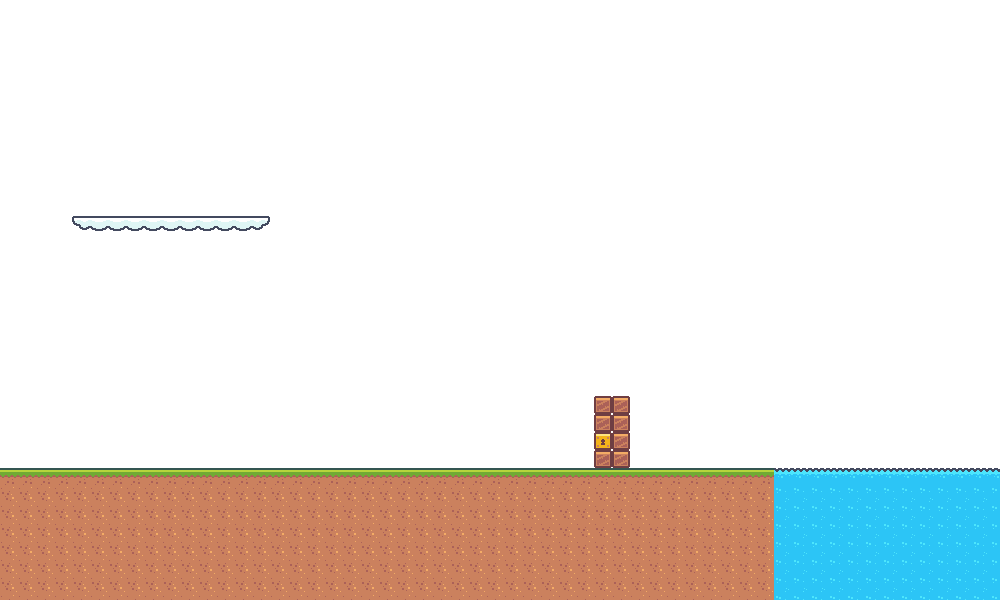
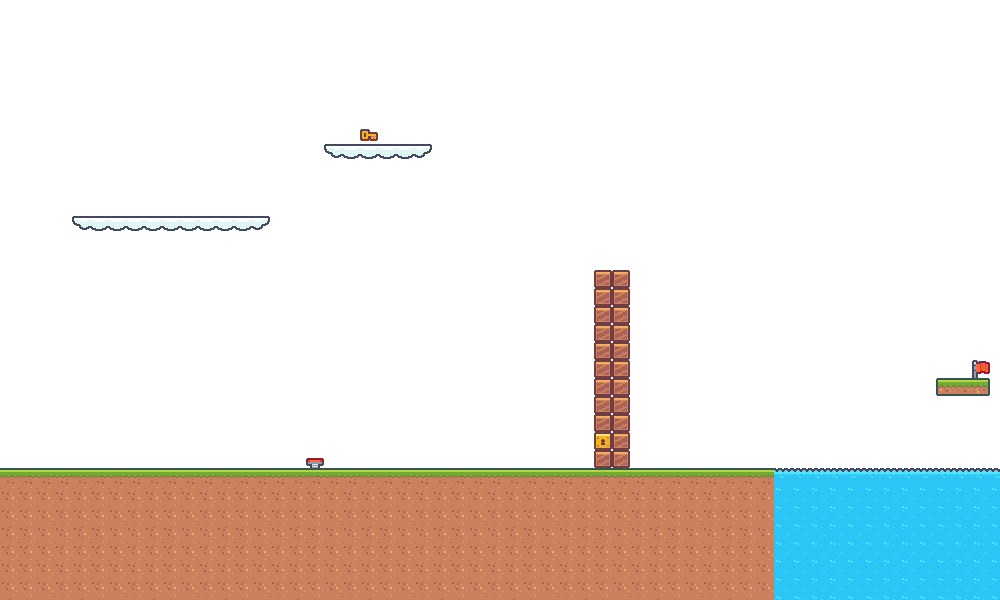
final

diff --git a/Season4/final/final/1.py b/Season4/final/final/1.py
@@ -20,6 +20,9 @@ class Player(Sprite):
     MAX_SPEED = 10
     ACCELERATION = 1
     CLIMB_SPEED = 2
+    SWIM_SPEED = 2
+
+    JUMP_KEY = KeyCode.SPACE
 
     class State(Enum):
         STANDING = auto()
@@ -27,6 +30,7 @@ class Player(Sprite):
         JUMPING = auto()
         FALLING = auto()
         CLIMBING = auto()
+        SWIMMING = auto()
 
     def on_create(self):
         self.image = "character_0001.png"
@@ -40,6 +44,7 @@ class Player(Sprite):
         self.add_tag("player")
         self.layer = 5
         self.state = Player.State.FALLING
+        self.has_key = False
 
     def is_on_a_ladder(self):
         return bool(self.get_touching_sprites_with_tag('l'))
@@ -63,14 +68,13 @@ class Player(Sprite):
         self.y += self.vy
         self.vy -= Player.GRAVITY
 
-
     def on_update(self, dt):
 
         if self.state is Player.State.STANDING:
             self.update_vx()
             if self.vx != 0:
                 self.state = Player.State.WALKING
-            if w.is_key_down(KeyCode.W):
+            if w.is_key_down(Player.JUMP_KEY):
                 self.vy = Player.JUMP_VELOCITY
                 self.state = Player.State.JUMPING
             if self.is_on_a_ladder():
@@ -79,13 +83,20 @@ class Player(Sprite):
             
         elif self.state is Player.State.WALKING:
             self.update_vx()
+            if self.get_touching_sprites_with_tag("k"):
+                self.has_key = True
+            if self.get_touching_sprites_with_tag("block"):
+                self.x -= self.vx
+            if self.get_touching_sprites_with_tag("keyhole"):
+                if self.has_key == True:
+                    pass
             if not self.is_touching_any_sprite_with_tag("g"):
                 self.state = Player.State.FALLING
                 self.vy = 0
-            if self.vx == 0:
+            elif self.vx == 0:
                 self.state = Player.State.STANDING
             
-            elif w.is_key_down(KeyCode.W):
+            elif w.is_key_down(Player.JUMP_KEY):
                 self.vy = Player.JUMP_VELOCITY
                 self.state = Player.State.JUMPING
 
@@ -98,6 +109,12 @@ class Player(Sprite):
                 if self.y - self.vy > ground_y:
                     self.y = ground_y
                     self.state = Player.State.STANDING
+            else:
+                water = self.get_touching_sprites_with_tag("water")
+                if water:
+                    water_y = water[0].y + water[0].height/2 - self.height/2
+                    if self.y < water_y:
+                        self.state = Player.State.SWIMMING
             # TO DO
             # else:
             #     l = self.get_touching_sprites_with_tag("l")
@@ -108,18 +125,20 @@ class Player(Sprite):
         elif self.state is Player.State.JUMPING:
             self.update_vx()
             self.update_vy()
+            if self.get_touching_sprites_with_tag("jump"):
+                self.vy = Player.JUMP_VELOCITY + 10
             if self.vy < 0:
                 self.state = Player.State.FALLING
         
         elif self.state is Player.State.CLIMBING:
             self.update_vx()
             if self.is_on_a_ladder():
-                if w.is_key_pressed(KeyCode.UP):
+                if w.is_key_pressed(KeyCode.W):
                     self.y += Player.CLIMB_SPEED
                     if not self.is_on_a_ladder():
                         self.state = Player.State.STANDING
                         self.vy = 0
-                if w.is_key_pressed(KeyCode.DOWN):
+                if w.is_key_pressed(KeyCode.S):
                     self.y -= Player.CLIMB_SPEED
                     if self.is_touching_any_sprite_with_tag("g"):
                         self.state = Player.State.STANDING
@@ -127,6 +146,20 @@ class Player(Sprite):
             elif not self.is_on_a_ladder():
                 self.state = Player.State.FALLING
                 self.vy = 0
+        
+        elif self.state is Player.State.SWIMMING:
+            self.update_vx()
+            if w.is_key_pressed(KeyCode.W):
+                self.y += Player.SWIM_SPEED
+            if w.is_key_pressed(KeyCode.S):
+                self.y -= Player.SWIM_SPEED
+            if self.get_touching_sprites_with_tag("g"):
+                self.x -= self.vx
+            water = self.get_touching_sprites_with_tag("water")
+            # if water:
+            #     water_y = water[0].y + water[0].height/2 + 1
+            #     if self.y > water_y:
+            #         self.state = Player.State.STANDING
 
 w.create_sprite(Level)
 w.create_sprite(Player)
